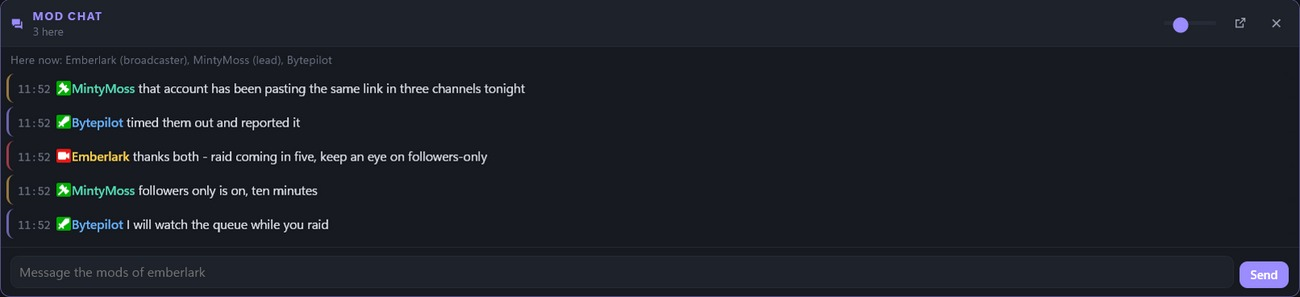
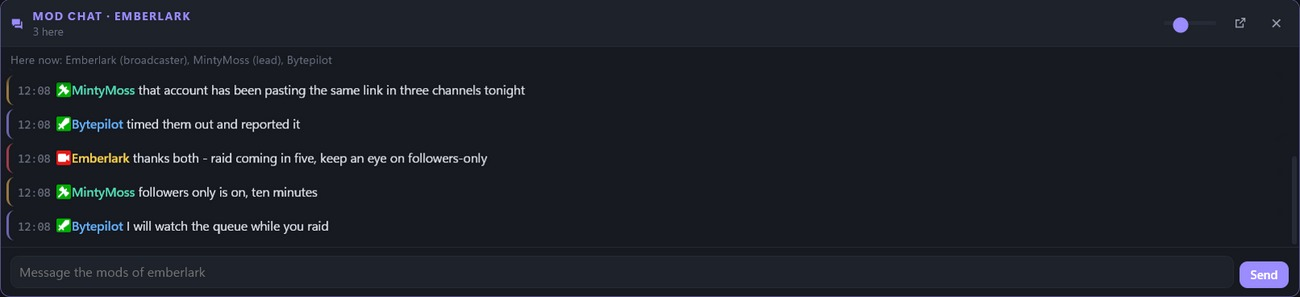
Update website

diff --git a/docs/index.html b/docs/index.html
@@ -42,7 +42,7 @@
   "description": "A fast, free Twitch chat client for Windows with tabs and splits, 7TV, BetterTTV and FrankerFaceZ emotes, and one-click moderation tools including AutoMod, staff history and user cards.",
   "applicationCategory": "CommunicationApplication",
   "operatingSystem": "Windows 10, Windows 11",
-  "softwareVersion": "1.24.6",
+  "softwareVersion": "1.24.7",
   "releaseNotes": "https://chattler.net/#releases",
   "downloadUrl": "https://chattler.net/#download",
   "installUrl": "https://chattler.net/#download",

diff --git a/docs/guide/guide.md b/docs/guide/guide.md
@@ -400,7 +400,8 @@ Click **Mod chat** for a room shared by the people who moderate that channel - s
 - **Only moderators of that channel can get in**, and Twitch decides who they are: Chattler asks Twitch whether you moderate the channel, and the room opens only if the answer is yes. Nobody hands out an invite, and there is nothing to join.
 - **The broadcaster is in it too.** It is their channel, so treat it as a team room rather than a place to talk about the streamer.
 - **Badges say who is who**: the broadcaster, a **lead moderator** (Twitch's role for mods who can add and remove other mods), and a moderator. The broadcaster is certain - it is their channel - and so is being a moderator, which Twitch is asked directly. The lead badge is the one Twitch put on that person in this channel, read from their own account; Twitch gives apps no way to ask about somebody else's, so that is where it comes from. Everyone in the room is a confirmed moderator either way.
-- One room per channel. The drop-down in the header picks which one you are looking at when you moderate more than one, and the toolbar button carries a count of anything you have not read.
+- **It is always the chat you are reading.** One room per channel, and the panel follows whichever chat you are in - its header says which one, and so does the message box. There is nothing to pick, so a message cannot land in the wrong team’s room. Click another chat and the panel moves with you; the toolbar button carries a count of anything unread anywhere.
+- In a chat you do not moderate the panel says so and the box is greyed out.
 - It arrives through **Chattler's own server**, not Twitch. Nothing said here appears in chat, in your Twitch whispers, or anywhere on Twitch.
 - Messages are kept for **48 hours** so someone coming on shift can catch up, then they are deleted. The room holds the last 500.
 - **Streamer mode hides it**, since what the team says to each other is not for a stream.
